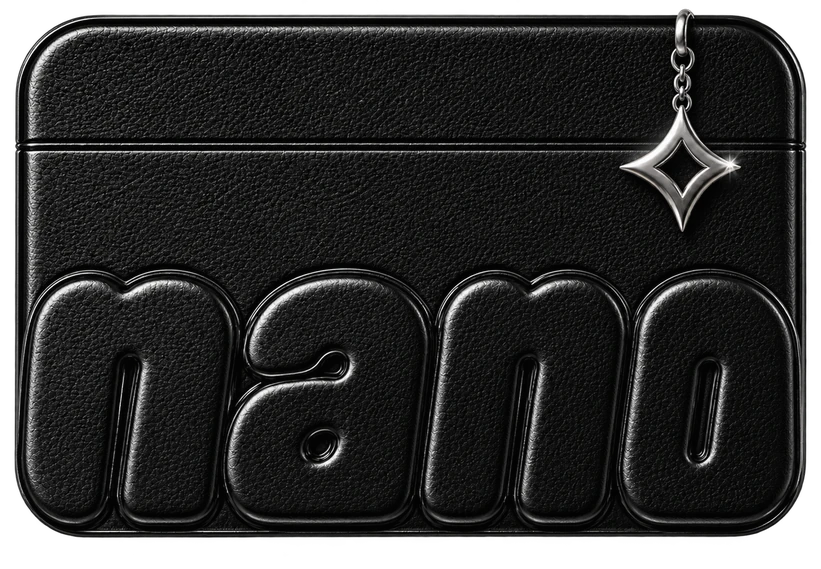
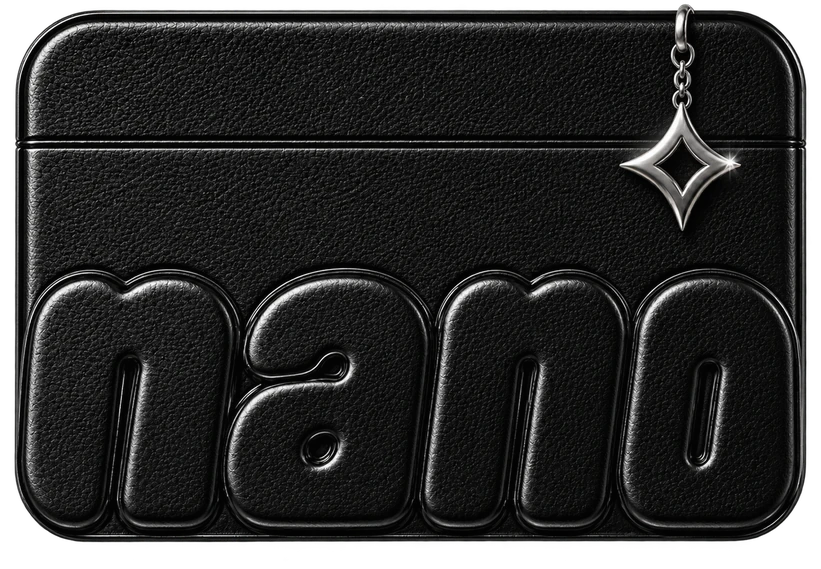
Confirm sheet 1:1 with Figma 47:5886
- Continue now sits in the M-StackedActionBar (48:6035): top 719.5, 12/16
  padding, no border/radius → button 15.6 × 731.5, 343 × 56 (exact).
- Card shadow: Figma's 4-layer stack follows the card's shape, so it's baked
  into card-front.webp from the card's alpha (offsets/blurs of 47:5987, σ =
  blur/2, stacked over) — matches Figma's falloff, zero runtime cost.
- Card images now cover-cropped like Figma's object-cover (they were
  stretched ~1.3–1.7% vertically); settled card edges within 0.5px.

Verified against a 3× export of the frame: stepper/card/texts at 0 offset,
title/subtitle ≤ 0.5px, button exact, shadow falloff within ~2 levels.

diff --git a/index.html b/index.html
@@ -784,8 +784,11 @@
     .skin__card--mid   { left: 59.41px; top: 327.48px; width: 273.755px; height: 193.39px; }
     .skin__card--mid img { transform: rotate(8deg); }
     .skin__card--front { left: 50.46px; top: 329.93px; width: 273.867px; height: 193.469px; }
-    /* 45:5657 shadow stack, alpha-aware (the image has transparent rounded corners) */
-    .skin__card--front img { filter: drop-shadow(0 4px 8px rgba(4,18,11,.1)) drop-shadow(0 29px 14px rgba(4,18,11,.09)); }
+    /* 45:5657 / 47:5987 shadow stack, baked into card-front.webp from the card's alpha (Figma's
+       shadow follows the card's shape; a CSS box-shadow would draw the image's padded rectangle).
+       The image carries 70 / 40 / 140px (settled @1x) of shadow margin around the card, so it sits
+       at those offsets in the card's unscaled box (× 273.867 / 315.66). Zero runtime cost. */
+    .skin__card--front img { position: absolute; left: -60.732px; top: -34.704px; width: 395.337px; height: 349.643px; max-width: none; }
     /* front card: the drag handle (47:5987 is the same card, settled 315.66 wide at 187.5, 434.26) */
     .skin__card--front { touch-action: none; cursor: grab; user-select: none; -webkit-user-select: none; -webkit-touch-callout: none; }
     .skin__card--front:active { cursor: grabbing; }
@@ -800,10 +803,8 @@
     .skin__confirm p { margin: 0; }
     .skin__confirm-title { font-weight: 800; font-size: 40px; line-height: 50px; letter-spacing: -0.3125px; color: #000; }
     .skin__confirm-sub { font-weight: 500; font-size: 20px; line-height: 27.5px; letter-spacing: -0.1875px; color: rgba(0,0,0,.8); }
-    /* 47:5989 bottom bar: 375 wide, 1px rgba(255,255,255,.22) border, r24 top, 20 / 24 padding.
-       Its 32.5px backdrop blur sits over the opaque white sheet, so it's visually a no-op — dropped (perf). */
-    .skin__cta { position: absolute; left: -0.4px; bottom: 0; width: 375px; display: flex; padding: 20px 16px 24px;
-      border: 1px solid rgba(255,255,255,.22); border-bottom: 0; border-radius: 24px 24px 0 0; pointer-events: auto; }
+    /* 48:6035 M-StackedActionBar: 375 wide at −0.4, 719.5; 12 / 16 padding; full-width nano button */
+    .skin__cta { position: absolute; left: -0.4px; top: 719.5px; width: 375px; display: flex; padding: 12px 16px; pointer-events: auto; }
 
     /* 45:5658 — Figma's text has two trailing spaces but centres the glyphs (matched to 187.5) */
     .skin__hint {
